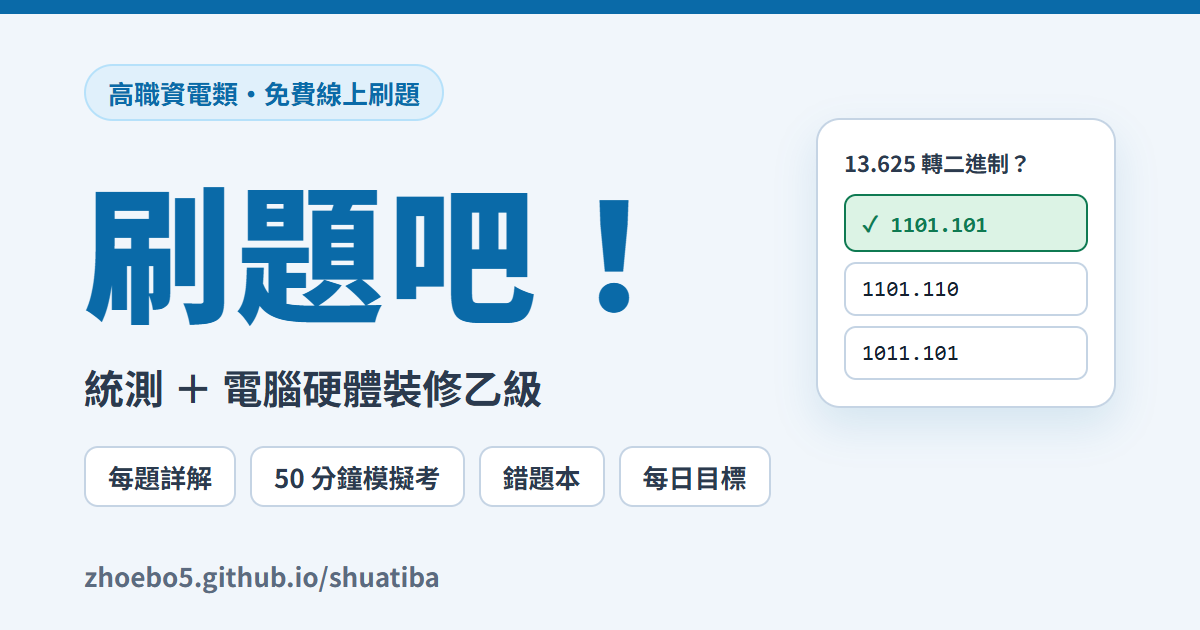
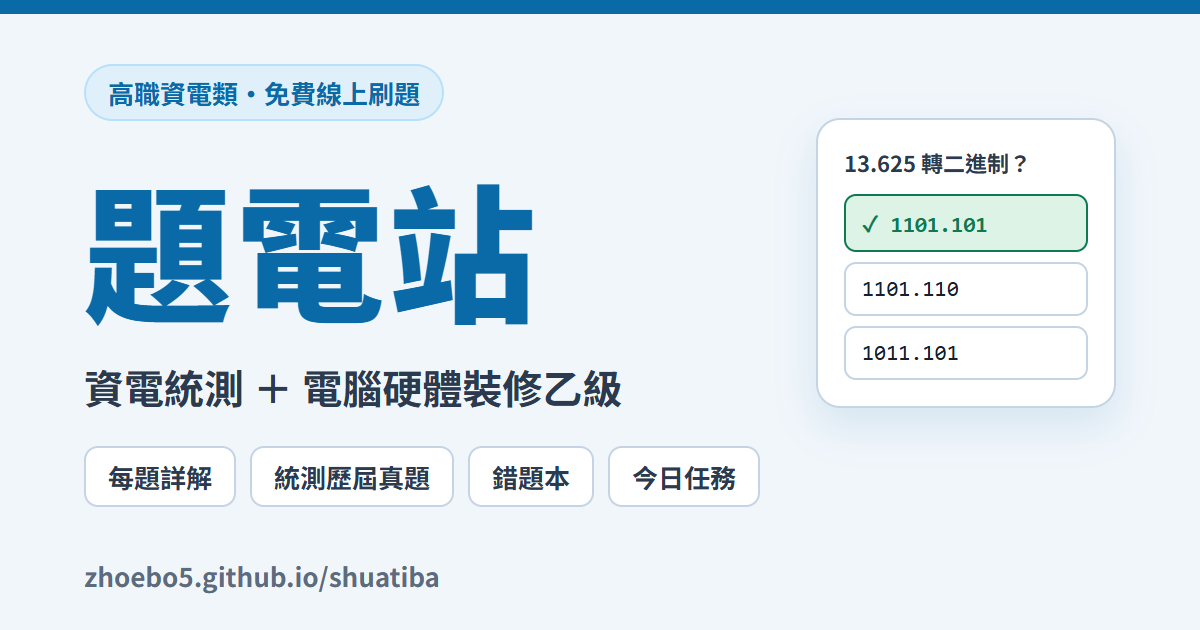
網站改名「題電站」（網址不變）
- 標題、導覽列、頁尾、SEO 描述、JSON-LD（舊名保留在 alternateName）、手機桌面名稱
- 分享圖 og-image.png 重做，og:image 加 ?v=2 讓社群平台重抓
- 描述補上 115 英文歷屆與今日任務；sw v10

Claude-Session: https://claude.ai/code/session_012DDpLYkr7XvQ58D1heazFK

diff --git a/index.html b/index.html
@@ -7,24 +7,24 @@
   <link rel="apple-touch-icon" href="icons/apple-touch-icon.png">
   <meta name="mobile-web-app-capable" content="yes">
   <meta name="apple-mobile-web-app-capable" content="yes">
-  <meta name="apple-mobile-web-app-title" content="刷題吧！">
+  <meta name="apple-mobile-web-app-title" content="題電站">
   <meta name="theme-color" content="#f7f1e4">
   <meta name="google-site-verification" content="n6AwC0Cb5vFlVyuwA0FXFo7plyQYMmamNmq0pZLzcDc">
-  <meta name="description" content="刷題吧！是給高職資電類學生的免費線上刷題網站，涵蓋統測國文、英文、數學、基本電學、電子學、數位邏輯設計、程式設計實習、微處理機與電腦硬體裝修乙級，每題附詳解，還有 111～115 年統測歷屆試題仿真模擬考（數學(C)、資電類專一專二，對照全國成績組距）、錯題本與排行榜。">
+  <meta name="description" content="題電站是給高職資電類學生的免費線上刷題網站，涵蓋統測國文、英文、數學、基本電學、電子學、數位邏輯設計、程式設計實習、微處理機與電腦硬體裝修乙級，每題附詳解，還有 111～115 年統測歷屆試題仿真模擬考（英文、數學(C)、資電類專一專二，對照全國成績組距）、每日自動排題的今日任務、錯題本與排行榜。">
   <link rel="canonical" href="https://zhoebo5.github.io/shuatiba/">
   <meta property="og:type" content="website">
-  <meta property="og:site_name" content="刷題吧！">
+  <meta property="og:site_name" content="題電站">
   <meta property="og:locale" content="zh_TW">
   <meta property="og:url" content="https://zhoebo5.github.io/shuatiba/">
-  <meta property="og:title" content="刷題吧！｜資電類統測・電腦硬體裝修乙級免費刷題">
+  <meta property="og:title" content="題電站｜資電類統測・電腦硬體裝修乙級免費刷題">
   <meta property="og:description" content="統測共同科目、專一、專二與電腦硬體裝修乙級題庫，加上統測歷屆試題仿真模擬考，每題附詳解。免費、免下載，手機就能刷。">
-  <meta property="og:image" content="https://zhoebo5.github.io/shuatiba/og-image.png">
+  <meta property="og:image" content="https://zhoebo5.github.io/shuatiba/og-image.png?v=2">
   <meta property="og:image:width" content="1200">
   <meta property="og:image:height" content="630">
   <meta name="twitter:card" content="summary_large_image">
-  <script type="application/ld+json">{"@context":"https://schema.org","@type":"WebApplication","name":"刷題吧！","alternateName":"刷題吧","url":"https://zhoebo5.github.io/shuatiba/","description":"高職資電類統測與電腦硬體裝修乙級的免費線上刷題網站，每題附詳解，提供統測歷屆試題仿真模擬考、錯題本與排行榜。","applicationCategory":"EducationalApplication","operatingSystem":"Web","inLanguage":"zh-TW","isAccessibleForFree":true,"offers":{"@type":"Offer","price":"0","priceCurrency":"TWD"},"audience":{"@type":"EducationalAudience","educationalRole":"student"}}</script>
+  <script type="application/ld+json">{"@context":"https://schema.org","@type":"WebApplication","name":"題電站","alternateName":["題電站｜資電統測刷題","刷題吧！"],"url":"https://zhoebo5.github.io/shuatiba/","description":"高職資電類統測與電腦硬體裝修乙級的免費線上刷題網站，每題附詳解，提供統測歷屆試題仿真模擬考、錯題本與排行榜。","applicationCategory":"EducationalApplication","operatingSystem":"Web","inLanguage":"zh-TW","isAccessibleForFree":true,"offers":{"@type":"Offer","price":"0","priceCurrency":"TWD"},"audience":{"@type":"EducationalAudience","educationalRole":"student"}}</script>
   <script>(function(){var g=function(k,d,ok){var v=null;try{v=localStorage.getItem(k)}catch(e){}return ok.indexOf(v)>-1?v:d},h=document.documentElement.dataset;h.theme=g("theme","light",["light","dark"]);h.palette=g("palette","cool",["warm","cool"])})()</script>
-  <title>刷題吧！｜資電類統測・電腦硬體裝修乙級免費線上刷題</title>
+  <title>題電站｜資電類統測・電腦硬體裝修乙級免費線上刷題</title>
   <link rel="icon" type="image/png" href="icons/icon-192.png">
   <style>
 :root{--nav-h:64px;--ink:42 35 27;--slate-50:31 25 19;--slate-100:42 35 27;--slate-200:56 47 37;--slate-300:80 70 58;--slate-400:107 95 80;--slate-500:156 142 120;--slate-600:208 195 165;--slate-700:229 218 193;--slate-800:255 253 248;--slate-900:247 241 228;--slate-950:241 232 212;--cyan-50:4 41 58;--cyan-100:6 55 73;--cyan-200:8 69 90;--cyan-300:10 86 111;--cyan-400:13 101 132;--cyan-500:23 128 159;--cyan-600:15 111 143;--cyan-700:12 92 119;--cyan-800:10 74 97;--cyan-900:10 66 88;--cyan-950:220 237 243;--amber-50:53 31 0;--amber-100:72 43 0;--amber-200:94 56 0;--amber-300:116 69 0;--amber-400:138 83 0;--amber-500:182 109 12;--amber-600:168 101 10;--amber-700:143 85 8;--amber-800:116 68 7;--amber-900:92 54 6;--amber-950:251 237 205;--emerald-50:5 42 27;--emerald-100:7 58 38;--emerald-200:10 74 49;--emerald-300:13 92 61;--emerald-400:17 112 74;--emerald-500:16 133 90;--emerald-600:15 122 82;--emerald-700:12 104 68;--emerald-800:10 85 56;--emerald-900:8 67 45;--emerald-950:220 243 229;--rose-50:79 14 26;--rose-100:106 19 35;--rose-200:130 24 42;--rose-300:154 29 49;--rose-400:180 35 58;--rose-500:209 59 82;--rose-600:190 47 69;--rose-700:168 38 59;--rose-800:143 31 51;--rose-900:122 26 43;--rose-950:251 227 230;}
@@ -125,7 +125,7 @@ html[data-palette="cool"][data-theme="dark"]{--slate-50:245 248 252;--slate-100:
   <nav class="bg-slate-800 border-b border-slate-700 px-4 py-3 sticky top-0 z-20 shadow-md">
     <div class="max-w-4xl mx-auto flex flex-wrap justify-between items-center gap-2">
       <h1 class="text-lg sm:text-xl font-bold text-cyan-400 tracking-wide">
-        刷題吧！<span class="hidden sm:inline ml-2 text-xs font-medium text-slate-400 tracking-normal">資電統測・乙級刷題</span>
+        題電站<span class="hidden sm:inline ml-2 text-xs font-medium text-slate-400 tracking-normal">資電統測・乙級刷題</span>
       </h1>
       <div class="flex items-center gap-3 ml-auto">
         <div class="tab-bar" id="tab-bar">
@@ -509,7 +509,7 @@ html[data-palette="cool"][data-theme="dark"]{--slate-50:245 248 252;--slate-100:
 
   <!-- 網站介紹與隱私說明 -->
   <footer class="max-w-4xl mx-auto px-4 mt-10 mb-4 text-xs text-slate-400 leading-relaxed space-y-2">
-    <p><strong class="text-slate-300">刷題吧！</strong>是給高職資電類學生的免費刷題網站，涵蓋統測共同科目（國文、英文、數學）、專業科目一（基本電學、電子學）、專業科目二（數位邏輯設計、程式設計實習、微處理機），以及電腦硬體裝修乙級學科。「歷屆」收錄統測歷屆試題（目前有 111～115 年數學(C) 與資電類專業科目一、二），可以照真實考試的時間作答（數學 80 分鐘、專業科目 100 分鐘），交卷後對照官方成績組距看自己在全國的位置；歷屆題也分好章節，可以在刷題區只練某一章。</p>
+    <p><strong class="text-slate-300">題電站</strong>是給高職資電類學生的免費刷題網站，涵蓋統測共同科目（國文、英文、數學）、專業科目一（基本電學、電子學）、專業科目二（數位邏輯設計、程式設計實習、微處理機），以及電腦硬體裝修乙級學科。「歷屆」收錄統測歷屆試題（目前有 111～115 年數學(C)、資電類專業科目一、二，以及 115 年英文），可以照真實考試的時間作答（數學 80 分鐘、英文與專業科目 100 分鐘），交卷後對照官方成績組距看自己在全國的位置；歷屆題也分好章節，可以在刷題區只練某一章。</p>
     <p>題目為自編，並經 AI 輔助逐題查核；標示「✓ 已查核」的題目已檢查過答案與詳解。如果還是發現錯誤，請按題目旁的「⚑ 回報題目有誤」。</p>
     <p>隱私說明：網站會記錄你的暱稱、學校、頭像、作答統計與錯題，用來顯示個人戰績、錯題本和排行榜。排行榜會公開暱稱、頭像、學校與成績，不想公開學校的話，可以在「編輯個人檔案」把學校填成「不公開」。註冊用的 Email 只用來登入和重設密碼。「今日目標」和「各科表現」只存在你自己的瀏覽器裡。</p>
   </footer>

diff --git a/sw.js b/sw.js
@@ -1,7 +1,7 @@
 // 統測刷題 Service Worker
 // 原則：批改、登入、頭像等 Supabase 請求一律走網路，絕不快取（避免舊答案、舊登入狀態）。
 // 網頁本體：有網路就拿最新版；沒網路才用上次存的版本。
-const VERSION = 'v9';                 // 改了圖示或這支檔案時，把 v1 改成 v2、v3…
+const VERSION = 'v10';                 // 改了圖示或這支檔案時，把 v1 改成 v2、v3…
 const SHELL = 'shell-' + VERSION;
 const RUNTIME = 'runtime-' + VERSION;
 const SHELL_FILES = ['./', './index.html', './tailwind.css', './chapters.js', './manifest.webmanifest', './icons/icon-192.png', './icons/icon-512.png'];
